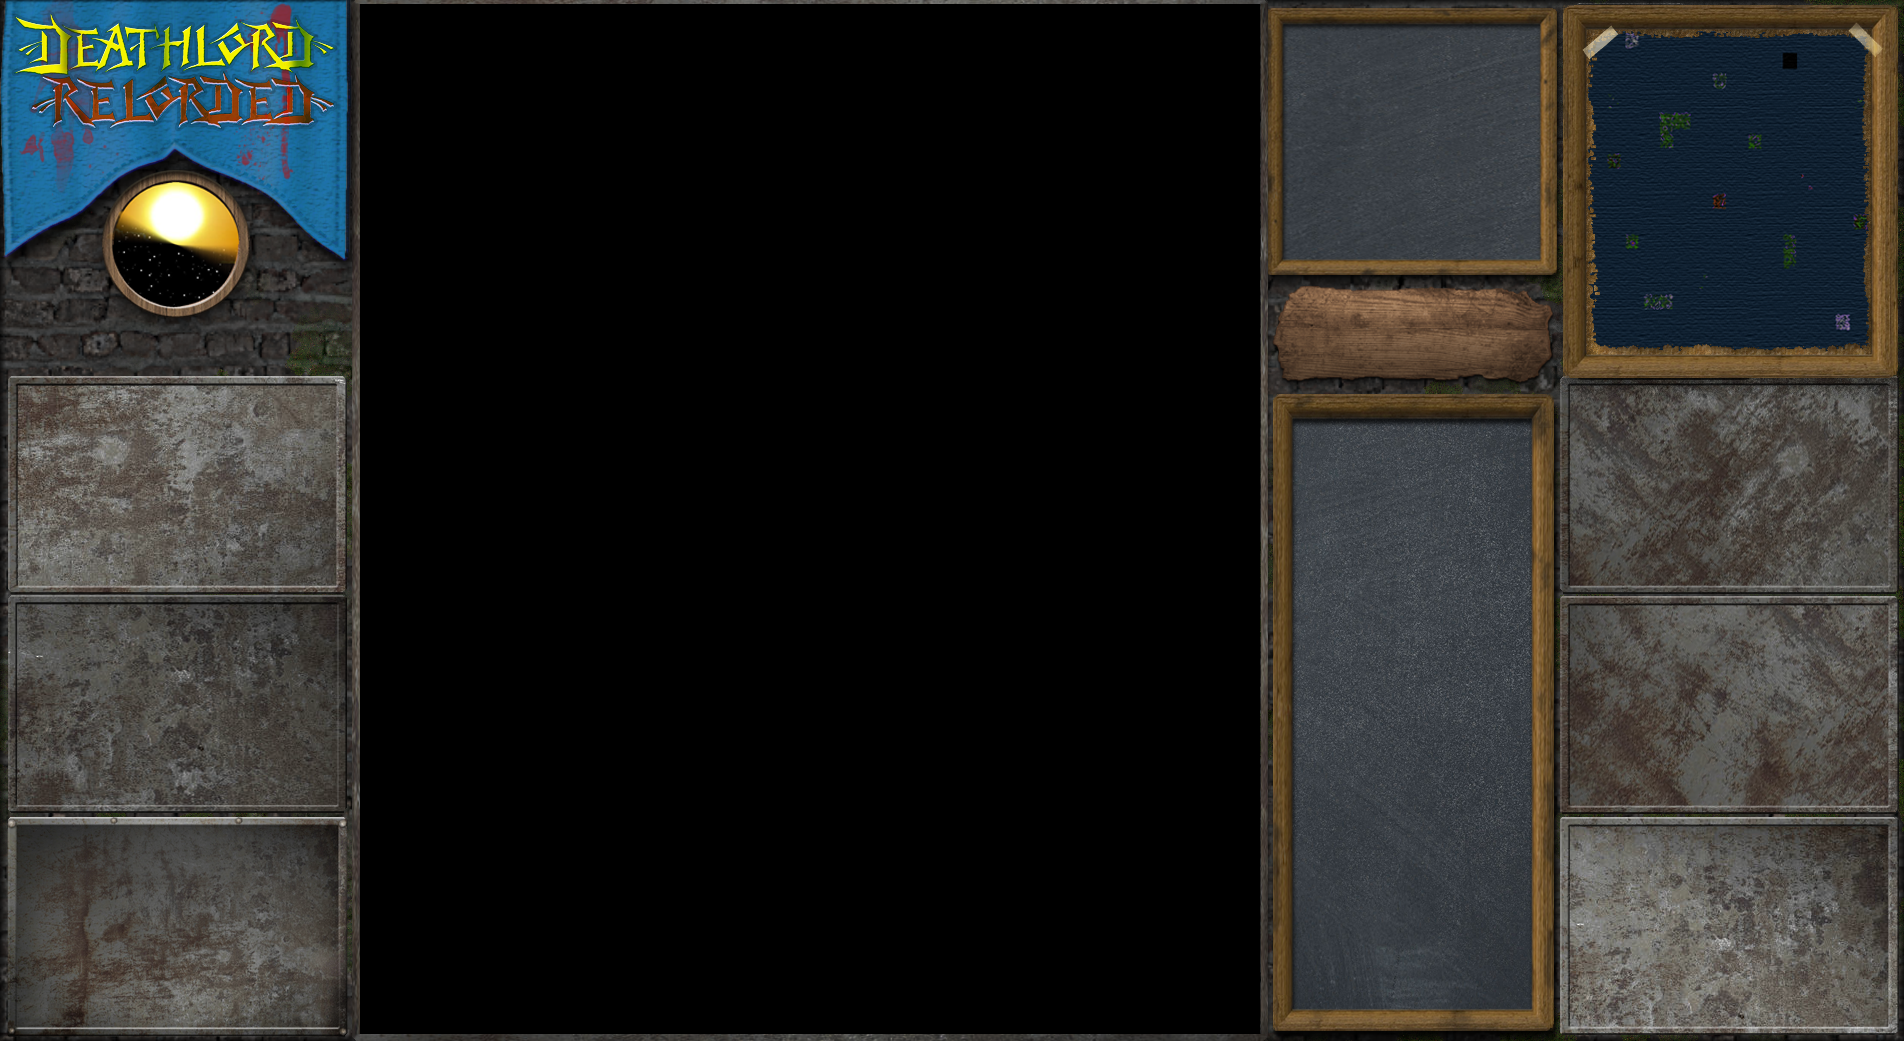
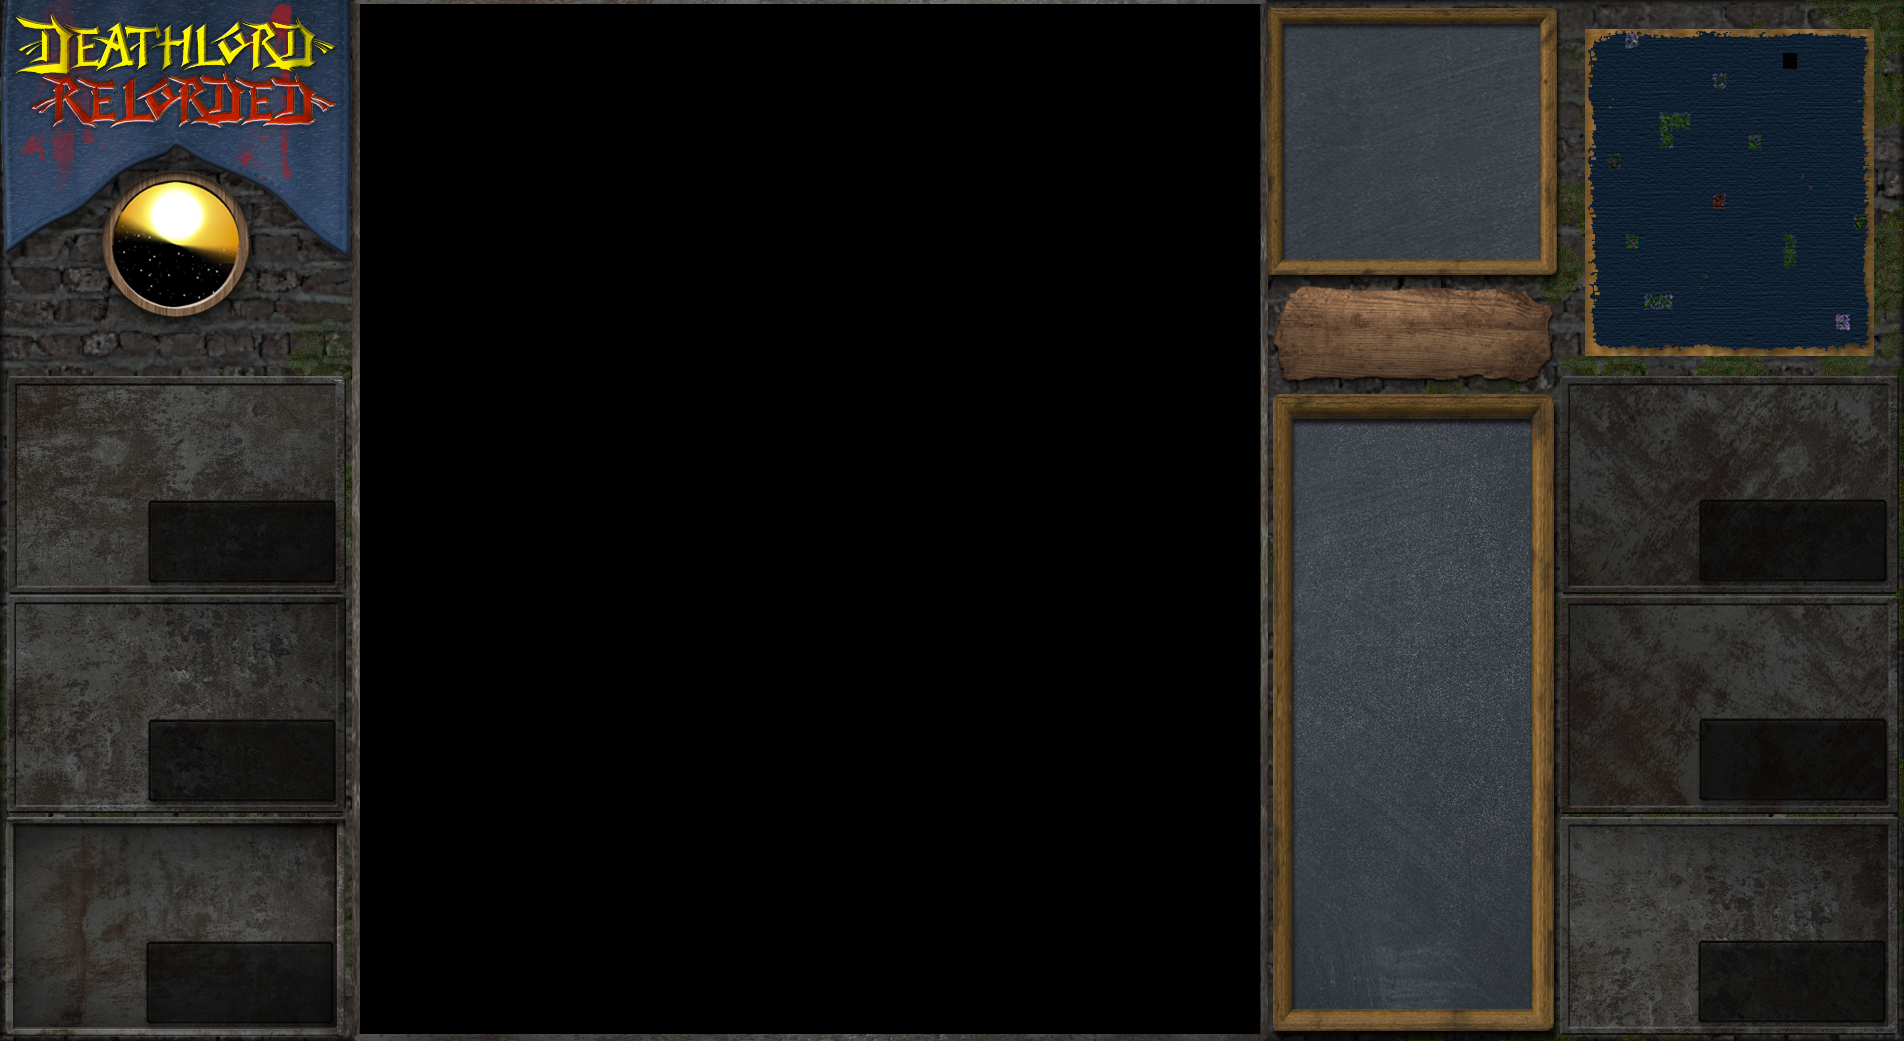
Multilayer background

Changed region(s): [[0.8057, 0.0, 1.0, 1.0], [0.0, 0.3381, 0.1859, 1.0], [0.0, 0.0, 0.1859, 0.2459]]

diff --git a/Deathlord-Relorded/PartyLayout.cpp b/Deathlord-Relorded/PartyLayout.cpp
@@ -38,13 +38,19 @@ void PartyLayout::Render(SimpleMath::Rectangle r, DirectX::SpriteBatch* spriteBa
 {
 	if (!g_hasBeenIdleOnce)
 		return;
-	auto plTexSize = GetTextureSize(m_partyLayoutSpriteSheet.Get());
 	m_invMgr = InvManager::GetInstance();
-//	spriteBatch->Draw(m_resourceDescriptors->GetGpuHandle((int)TextureDescriptors::PartyLayoutSpriteSheet), mmTexSize,
-//		_overlayPinPosInMap, &_pinRect, Colors::White, 0.f, _originPin);
 	for (UINT8 i = 0; i < m_partySize; i++)
 	{
 		RenderMember(i, spriteBatch, r.x + PARTY_LAYOUT_X[i], r.y + PARTY_LAYOUT_Y[i]);
+	}
+	// Now render the top background layer
+	auto bgltTexSize = GetTextureSize(m_bgLayerTop.Get());
+	spriteBatch->Draw(m_resourceDescriptors->GetGpuHandle((int)TextureDescriptors::MainBackgroundLayerTop), bgltTexSize,
+		Vector2(r.x, r.y));
+	// And the final dynamic layer
+	for (UINT8 i = 0; i < m_partySize; i++)
+	{
+		RenderMemberTopLayer(i, spriteBatch, r.x + PARTY_LAYOUT_X[i], r.y + PARTY_LAYOUT_Y[i]);
 	}
 }
 
@@ -96,21 +102,6 @@ void PartyLayout::RenderMember(UINT8 member, DirectX::SpriteBatch* spriteBatch, 
 			_mPortraitOrigin, &_portraitRect, Colors::White, 0.f, XMFLOAT2(), 1.f);
 	}
 
-	///// Draw party position
-	swprintf_s(_buf, _bufsize, L"%d", member + 1);
-	if (MemGetMainPtr(PARTY_CURRENT_CHAR_POS)[0] == member)
-	{
-		fontDLInverse->DrawString(spriteBatch, _buf, { _mPortraitOrigin.x + 4, _mPortraitOrigin.y + 4 },
-			Colors::Yellow, 0.f, Vector2(), 1.0f);
-		fontDL->DrawString(spriteBatch, _buf, { _mPortraitOrigin.x + 4, _mPortraitOrigin.y + 4 },
-			VColorAmber, 0.f, Vector2(), 1.0f);
-	}
-	else
-	{
-		fontDLInverse->DrawString(spriteBatch, _buf, { _mPortraitOrigin.x + 4, _mPortraitOrigin.y + 4 },
-			VColorText, 0.f, Vector2(), 1.0f);
-	}
-
 	///// Draw status with black outline
 	UINT8 _mStatus = MemGetMainPtr(PARTY_STATUS_START)[member];
 	Vector2 _mStatusOrigin(_mPortraitOrigin.x + PARTY_PORTRAIT_WIDTH - 4 - 14*3, 
@@ -159,8 +150,11 @@ void PartyLayout::RenderMember(UINT8 member, DirectX::SpriteBatch* spriteBatch, 
 	//fontDL->DrawString(spriteBatch, _mName.c_str(), { _mNameOrigin.x - 1.f, _mNameOrigin.y - 1.f } , Colors::Black, 0.f, Vector2(), 1.0f);
 	//fontDL->DrawString(spriteBatch, _mName.c_str(), { _mNameOrigin.x - 1.f, _mNameOrigin.y + 1.f }, Colors::Black, 0.f, Vector2(), 1.0f);
 	//fontDL->DrawString(spriteBatch, _mName.c_str(), { _mNameOrigin.x + 1.f, _mNameOrigin.y - 1.f }, Colors::Black, 0.f, Vector2(), 1.0f);
-	fontDL->DrawString(spriteBatch, _mName.c_str(), { _mNameOrigin.x + 1.f, _mNameOrigin.y + 1.f }, Colors::Black, 0.f, Vector2(), 1.0f);
-	fontDL->DrawString(spriteBatch, _mName.c_str(), _mNameOrigin, VColorText, 0.f, Vector2(), 1.0f);
+	fontDL->DrawString(spriteBatch, _mName.c_str(), { _mNameOrigin.x + 1.f, _mNameOrigin.y + 1.f }, VColorCurtain, 0.f, Vector2(), 1.0f);
+	if (MemGetMainPtr(PARTY_CURRENT_CHAR_POS)[0] == member)
+		fontDL->DrawString(spriteBatch, _mName.c_str(), _mNameOrigin, Colors::Yellow, 0.f, Vector2(), 1.0f);
+	else
+		fontDL->DrawString(spriteBatch, _mName.c_str(), _mNameOrigin, VColorText, 0.f, Vector2(), 1.0f);
 
 	///// Draw stuff to the right of the portrait
 	Vector2 _mLevelOrigin(originX + PARTY_LAYOUT_WIDTH - 14*4 - _pad, _mNameOrigin.y);
@@ -213,14 +207,14 @@ void PartyLayout::RenderMember(UINT8 member, DirectX::SpriteBatch* spriteBatch, 
 
 	// Draw bottom stuff at smaller font size
 	float _fScale = 0.5f;
-	Vector2 _mClassOrigin(_mPortraitOrigin.x, _mPortraitOrigin.y + PARTY_PORTRAIT_HEIGHT + 4);
+	Vector2 _mClassOrigin(_mPortraitOrigin.x, _mPortraitOrigin.y + PARTY_PORTRAIT_HEIGHT + 6);
 	UINT8 _mClassId = MemGetMainPtr(PARTY_CLASS_START)[member];
 	std::wstring _mClass = NameOfClass((DeathlordClasses)_mClassId, true);
 	auto _sSizeX = XMVectorGetX(fontDL->MeasureString(_mClass.c_str(), false)) * _fScale;		// Take half width because we'll scale the font by 0.5
 	fontDL->DrawString(spriteBatch, _mClass.c_str(), { _mClassOrigin.x + (PARTY_PORTRAIT_WIDTH - _sSizeX) / 2, _mClassOrigin.y }, 
 		VColorText, 0.f, Vector2(), _fScale);
 	//
-	Vector2 _mAttrOrigin(_mClassOrigin.x, _mClassOrigin.y + 20);
+	Vector2 _mAttrOrigin(_mClassOrigin.x, _mClassOrigin.y + 18);
 	swprintf_s(_buf, _bufsize, L"STR:%02d INT:%02d\n\nCON:%02d DEX:%02d\n\nSIZ:%02d CHA %02d",
 		MemGetMainPtr(PARTY_ATTR_STR_START)[member],
 		MemGetMainPtr(PARTY_ATTR_CON_START)[member],
@@ -268,10 +262,46 @@ void PartyLayout::RenderMember(UINT8 member, DirectX::SpriteBatch* spriteBatch, 
 	
 }
 
+void PartyLayout::RenderMemberTopLayer(UINT8 member, DirectX::SpriteBatch* spriteBatch, UINT16 originX, UINT16 originY)
+{
+	// Need to render the party #
+	// And some overlay to show the active member
+	auto gamePtr = GetGamePtr();
+	auto fontDL = (*gamePtr)->GetSpriteFontAtIndex(FontDescriptors::FontDLRegular);
+	auto fontDLInverse = (*gamePtr)->GetSpriteFontAtIndex(FontDescriptors::FontDLInverse);
+	auto fontPR3Regular = (*gamePtr)->GetSpriteFontAtIndex(FontDescriptors::FontPR3Regular);
+	const UINT8 _bufsize = 200;
+	wchar_t _buf[_bufsize];
+
+	// padding of 2 all around
+	UINT8 _pad = 2;
+	///// Draw party position
+	Vector2 _mPortraitOrigin(originX + _pad, originY + _pad);
+	swprintf_s(_buf, _bufsize, L"%d", member + 1);
+	//Emboss down slightly
+	fontDL->DrawString(spriteBatch, _buf, { _mPortraitOrigin.x + 3, _mPortraitOrigin.y + 3 },
+		VColorCurtain, 0.f, Vector2(), 1.0f);
+	if (MemGetMainPtr(PARTY_CURRENT_CHAR_POS)[0] == member)
+	{
+		fontDL->DrawString(spriteBatch, _buf, { _mPortraitOrigin.x + 4, _mPortraitOrigin.y + 4 },
+			Colors::Yellow, 0.f, Vector2(), 1.0f);
+	}
+	else
+	{
+		fontDL->DrawString(spriteBatch, _buf, { _mPortraitOrigin.x + 4, _mPortraitOrigin.y + 4 },
+			VColorText, 0.f, Vector2(), 1.0f);
+	}
+}
+
 #pragma region D3D stuff
 void PartyLayout::CreateDeviceDependentResources(ResourceUploadBatch* resourceUpload)
 {
 	auto device = m_deviceResources->GetD3DDevice();
+	DX::ThrowIfFailed(
+		CreateWICTextureFromFile(device, *resourceUpload, L"Assets/Background_Relorded_LayerTop.png",
+			m_bgLayerTop.ReleaseAndGetAddressOf()));
+	CreateShaderResourceView(device, m_bgLayerTop.Get(),
+		m_resourceDescriptors->GetCpuHandle((int)TextureDescriptors::MainBackgroundLayerTop));
 	DX::ThrowIfFailed(
 		CreateWICTextureFromFile(device, *resourceUpload, L"Assets/SpriteSheet_PartyLayout.png",
 			m_partyLayoutSpriteSheet.ReleaseAndGetAddressOf()));
@@ -291,6 +321,7 @@ void PartyLayout::CreateDeviceDependentResources(ResourceUploadBatch* resourceUp
 
 void PartyLayout::OnDeviceLost()
 {
+	m_bgLayerTop.Reset();
 	m_partyLayoutSpriteSheet.Reset();
 	m_portraitsMale.Reset();
 	m_portraitsFemale.Reset();

diff --git a/Deathlord-Relorded/PartyLayout.h b/Deathlord-Relorded/PartyLayout.h
@@ -65,13 +65,15 @@ private:
 		Initialize();
 	}
 
-	void PartyLayout::RenderMember(UINT8 member, DirectX::SpriteBatch* spriteBatch, UINT16 originX, UINT16 originY);
+	void RenderMember(UINT8 member, DirectX::SpriteBatch* spriteBatch, UINT16 originX, UINT16 originY);
+	void RenderMemberTopLayer(UINT8 member, DirectX::SpriteBatch* spriteBatch, UINT16 originX, UINT16 originY);
 
 	UINT8 m_partySize;
 	UINT8 m_currentLeader;
 
 	DX::DeviceResources* m_deviceResources;
 	DescriptorHeap* m_resourceDescriptors;
+	Microsoft::WRL::ComPtr<ID3D12Resource> m_bgLayerTop;
 	Microsoft::WRL::ComPtr<ID3D12Resource> m_partyLayoutSpriteSheet;
 	Microsoft::WRL::ComPtr<ID3D12Resource> m_portraitsMale;
 	Microsoft::WRL::ComPtr<ID3D12Resource> m_portraitsFemale;

diff --git a/Deathlord-Relorded/Descriptors.h b/Deathlord-Relorded/Descriptors.h
@@ -16,6 +16,7 @@ constexpr XMVECTORF32 VColorCurtain = { { { 0.f, 0.f, 0.f, 0.9f } } };
 enum class TextureDescriptors
 {
 	MainBackground,
+	MainBackgroundLayerTop,
 	Apple2Video,
 	AutoMapBackgroundTransition,
 	AutoMapOverlandTiles,
